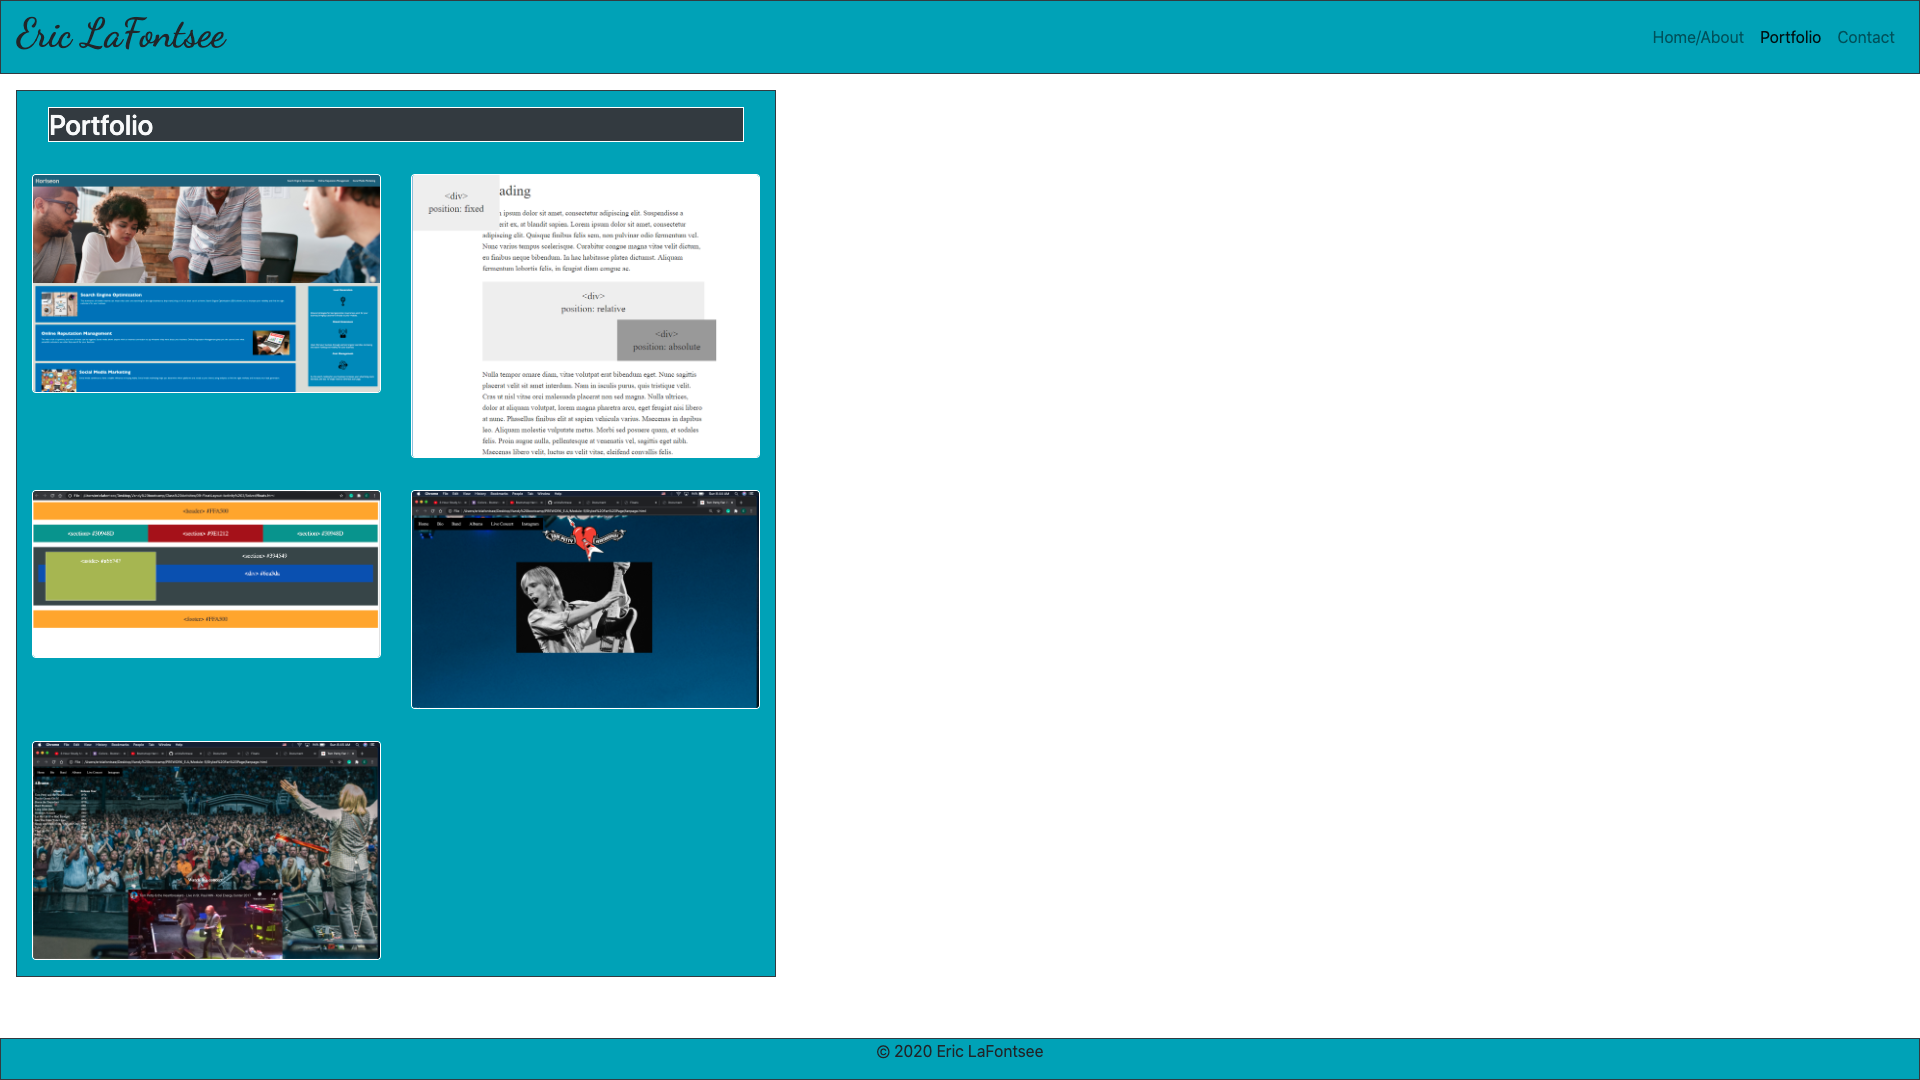
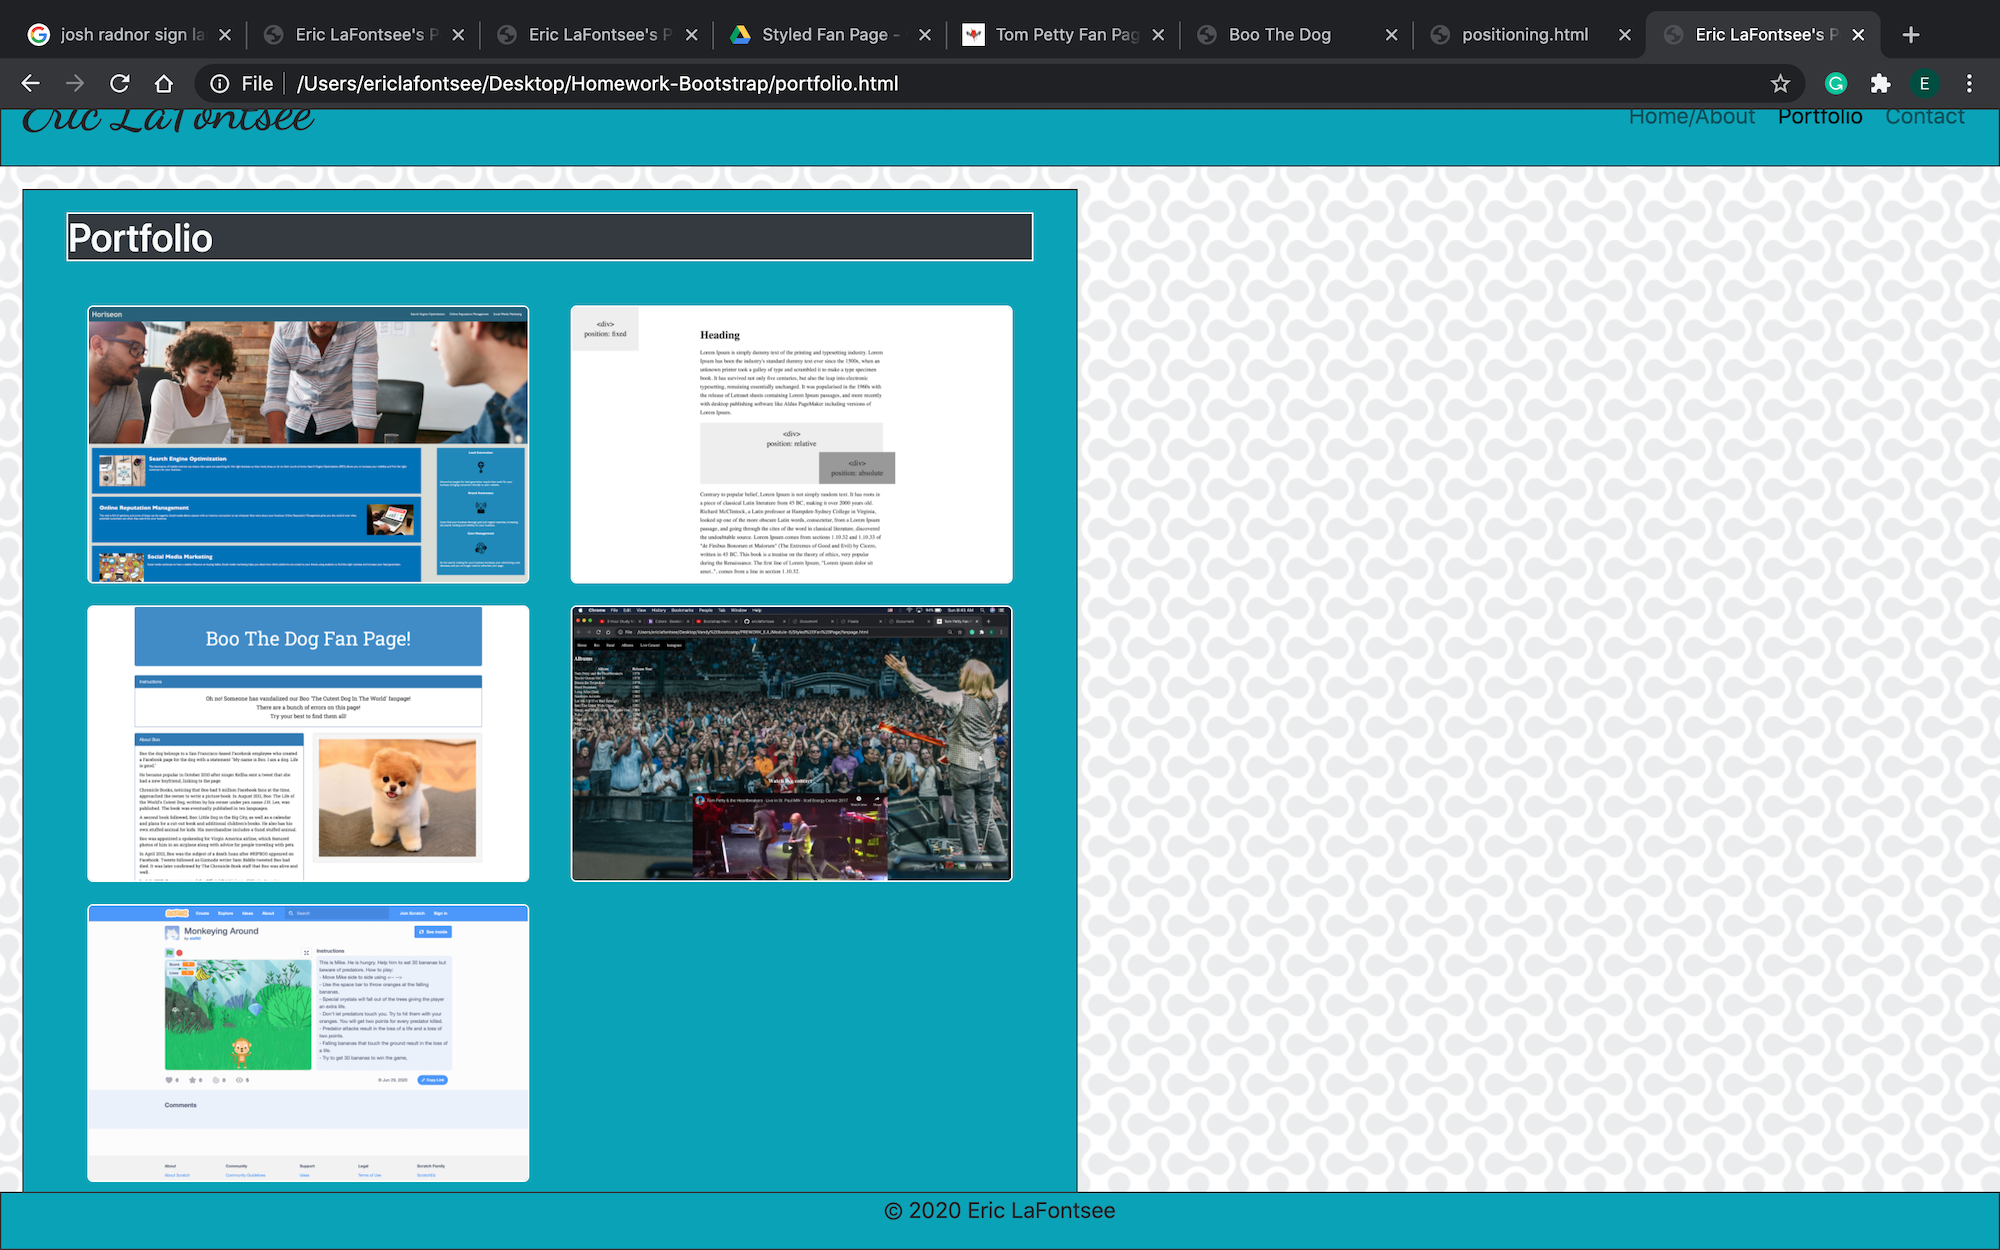
Third Draft. Added new photos and made them smaller for faster loading.

diff --git a/portfolio.html b/portfolio.html
@@ -55,16 +55,16 @@
                 <!-- Sub Row -->
                 <div class="row m-3">
                     <div class="col-sm-6">
-                        <img src="assets/Images/Float-Activity.png" class="rounded d-block w-100 border border-white" alt="Colorful box layout showcasing the css float property">
+                        <img src="assets/Images/BooTheDog.png" class="rounded d-block w-100 border border-white" alt="Colorful box layout showcasing the css float property">
                     </div> 
                     <div class="col-sm-6">
-                        <img src="assets/Images/Fanpage.png" class="rounded d-block w-100 border border-white" alt="Tom Petty fan page with Heartbreakers logo and Tom on guitar.">
+                        <img src="assets/Images/Fanpage2.png" class="rounded d-block w-100 border border-white" alt="Tom Petty fan page with Heartbreakers logo and Tom on guitar.">
                     </div> 
                 </div>
                 <!-- Sub Row -->
                 <div class="row m-3">
                     <div class="col-sm-6">
-                        <img src="assets/Images/Fanpage2.png" class="rounded d-block mb-3 w-100 border border-white" alt="Tom Petty fan page with an embedded video from a live concert">
+                        <img src="assets/Images/Scratch_pic.png" class="rounded d-block mb-3 w-100 border border-white" alt="Tom Petty fan page with an embedded video from a live concert">
                     </div> 
                 </div>
             </div>

diff --git a/index.html b/index.html
@@ -45,7 +45,7 @@
               <!-- Sub Row -->
                 <div class="row">
                     <div class="col-12">
-                        <img src="assets/Images/aboutme.jpg" class="float-left m-3 border border-white" alt="Portrait of Eric LaFontsee">
+                        <img src="assets/Images/Professional_pic.jpeg" class="float-left m-3 border border-white" alt="Portrait of Eric LaFontsee">
                             <p class="card-text m-3">My name is Eric LaFontsee and I am from Lakeville, MN. I currently reside in Nashville, Tn where I have lived since 2011. I moved here to pursue music and attend college at Belmont University. Over the last 9 years, I've been working in the music industry as a freelance guitar player, tour manager, and bandleader. I recently decided to switch careers and pursue web development. I am currently a student in Vanderbilt's Full Stack Web Development Bootcamp.</p>
                     </div> 
                 </div>
